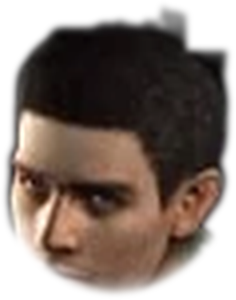
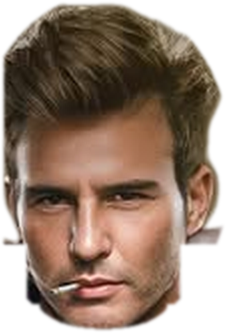
v3.52 : nouvelle tête pour Chris Redfield
Claude-Session: https://claude.ai/code/session_01WYc8bcxVUTnPR8YQxCHawi

diff --git a/public/matrice.js b/public/matrice.js
@@ -389,7 +389,7 @@ export function dessinerBonhomme(o, tete) {
           if (t === "batteuse") { y2.strokeStyle = "rgba(190,110,50,.5)"; y2.lineWidth = Math.max(1, w * .012); for (let k = 0; k < 70; k++) { y2.beginPath(); y2.arc((k * 37 % 100) / 100 * w, (k * 53 % 100) / 100 * h, w * .035, k, k + 3.5); y2.stroke(); } }
           else { y2.strokeStyle = "rgba(120,96,60,.45)"; y2.lineWidth = Math.max(1, w * .01); for (let k = 0; k < 34; k++) { const sx = (k + .5) / 34 * w; y2.beginPath(); y2.moveTo(sx, h * .03); y2.quadraticCurveTo(sx + (k % 3 - 1) * w * .03, h * .5, sx + (k % 2 ? 1 : -1) * w * .02, h); y2.stroke(); } } }
         else if (/^(rebecca|leon|barry|jill|wesker|chris)$/.test(t)) {   // de dos, les cheveux des héros de Resident Evil
-          const C = { rebecca: ["#4a3426", "#2a1c12"], leon: ["#6a5038", "#3e2c1c"], barry: ["#4a3424", "#2a1c12"], jill: ["#5e3e26", "#38220f"], wesker: ["#d2b97c", "#9c8250"], chris: ["#221c16", "#100c08"] }[t];
+          const C = { rebecca: ["#4a3426", "#2a1c12"], leon: ["#6a5038", "#3e2c1c"], barry: ["#4a3424", "#2a1c12"], jill: ["#5e3e26", "#38220f"], wesker: ["#d2b97c", "#9c8250"], chris: ["#6a4e34", "#3e2c1c"] }[t];
           g.addColorStop(0, C[0]); g.addColorStop(1, C[1]); y2.fillStyle = g; y2.fillRect(0, 0, w, h); y2.globalCompositeOperation = "source-atop";
           y2.strokeStyle = "rgba(255,255,255,.12)"; y2.lineWidth = Math.max(1, w * .01); for (let k = 0; k < 26; k++) { const sx = (k + .5) / 26 * w; y2.beginPath(); y2.moveTo(sx, h * .04); y2.quadraticCurveTo(sx + (k % 3 - 1) * w * .03, h * .45, sx + (k % 2 ? 1 : -1) * w * .02, h * .9); y2.stroke(); } }
         else if (t === "guitariste") {   // de dos : le chapeau noir sur des cheveux bruns

diff --git a/public/index.html b/public/index.html
@@ -2771,6 +2771,7 @@
 
   /* ===== Version de l'appli et nouveautés (la plus récente en premier) ===== */
   const VERSIONS = [
+    ["3.52", "12 octobre 2026", ["Chris Redfield : nouvelle tête (d'après l'affiche), cheveux châtains de dos"]],
     ["3.51", "12 octobre 2026", ["Caserne de l'apocalypse : les héros de Resident Evil (Rebecca, Leon, Barry, Jill, Wesker, Chris), avec leur tête et leur tenue", "À l'entrée (écran « Bienvenue en 1998 ») : on choisit de jouer soi-même ou l'un des héros (les autres joueurs le voient), et jusqu'à deux équipiers", "Les équipiers suivent le joueur, tirent tout seuls sur le zombie le plus proche, ont 4 vies chacun et peuvent tomber ; les autres joueurs les voient aussi", "Administrateur : un bouton par héros pour régler sa tête, sa tenue, sa taille", "Les autres joueurs voient aussi la danse 🙌 Saut"]],
     ["3.50", "12 octobre 2026", ["Nouvelle danse 🙌 Saut : on saute en rythme, les mains en l'air", "Assis au bar : le bonhomme est bien assis devant le tabouret (le pouf rond ne passe plus entre ses jambes)"]],
     ["3.49", "12 octobre 2026", ["Le bassiste et le guitariste bougent un peu en jouant : quelques pas de côté, en avant, en arrière, en sautillant en rythme ; ils reviennent à leur place quand la musique s'arrête"]],

diff --git a/public/sw.js b/public/sw.js
@@ -1,7 +1,7 @@
 // Service worker : permet d'installer l'appli (Android, iPhone, PC) et de l'ouvrir sans réseau.
 // Les pages sont servies « réseau d'abord » (toujours la dernière version), les images « cache d'abord ».
 // Le courrier et le registre (/api/) ne sont jamais mis en cache.
-const CACHE = "caserne-nf-v169";
+const CACHE = "caserne-nf-v170";
 const SHELL = ["/", "/images/garde.jpg", "/images/pierre.jpg", "/images/escaliers/brique.jpg", "/manifest.webmanifest", "/icons/icon-192.png"];
 
 self.addEventListener("install", e => {
